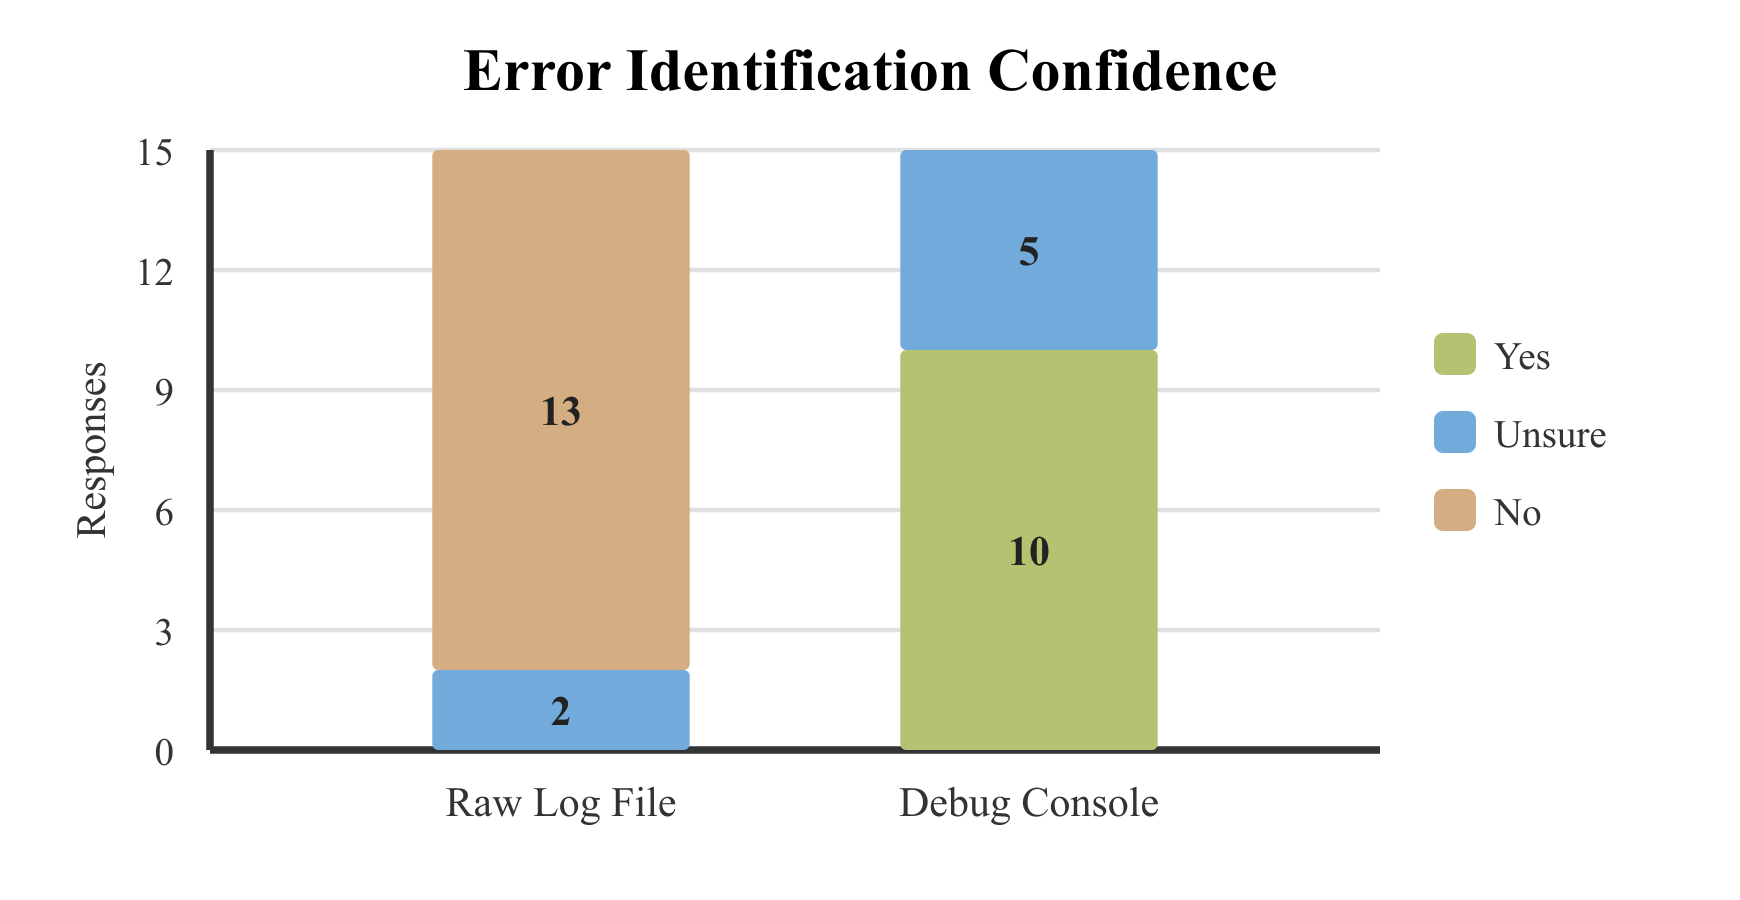
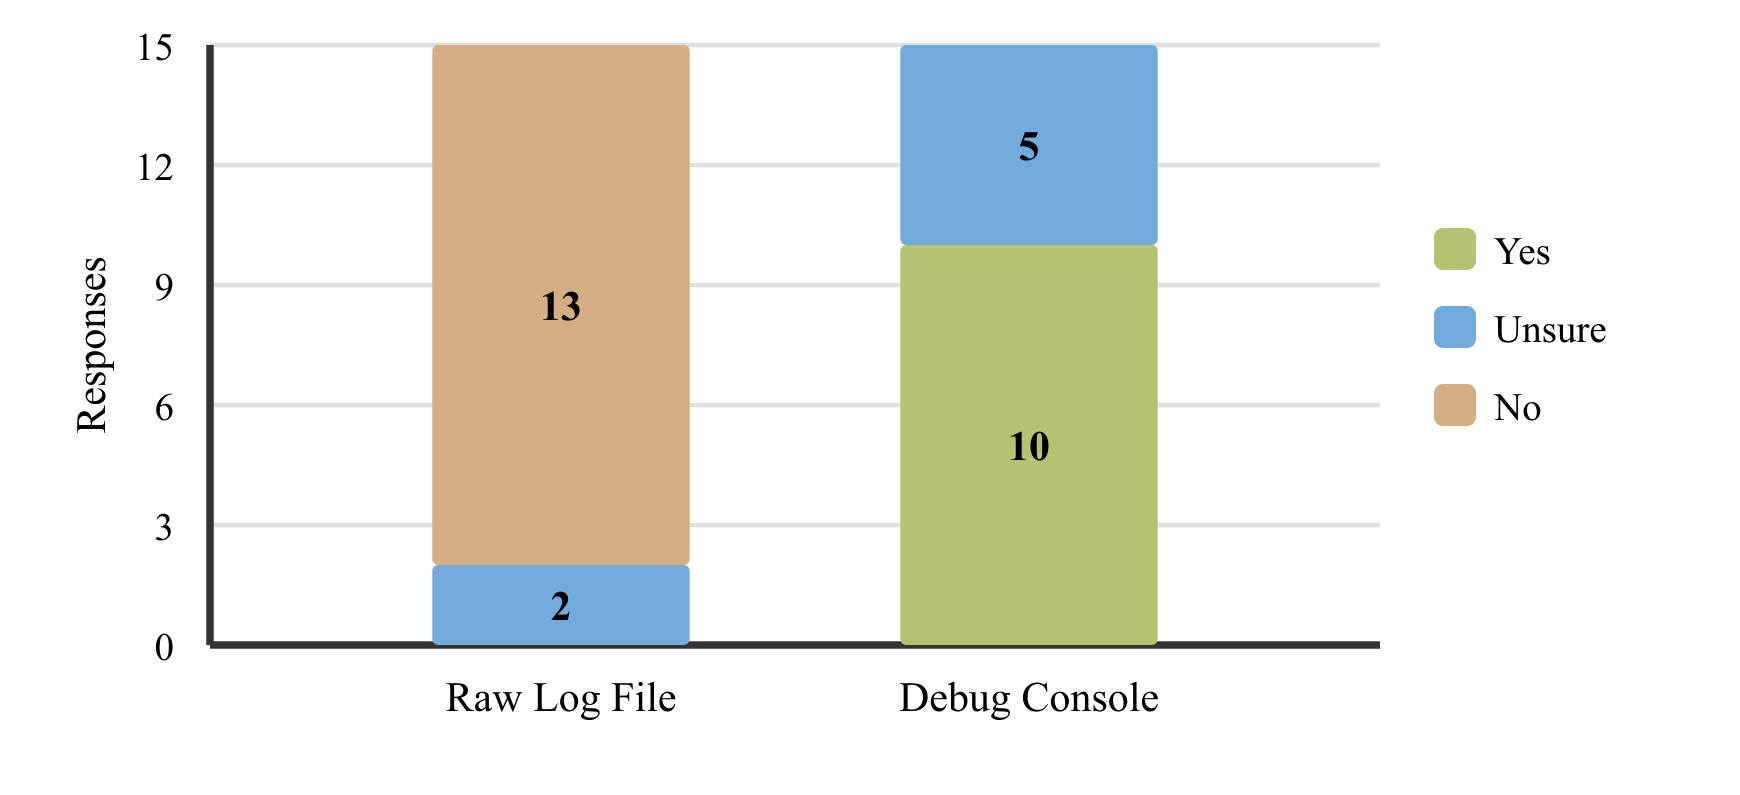
questionnaire graphs updated and raw code line numbers aligned correctly

diff --git a/src/assets/styles/raw-content.css b/src/assets/styles/raw-content.css
@@ -101,7 +101,7 @@
    display: flex;
    flex-direction: column;
    flex-shrink: 0;
-   padding: var(--spacing-xs) 12px var(--spacing-xs) var(--spacing-xs);
+   padding: calc(var(--spacing-xs) + 2px) 12px var(--spacing-xs) var(--spacing-xs);
    background: transparent;
    border-right: 1px solid var(--border-color);
    text-align: right;
